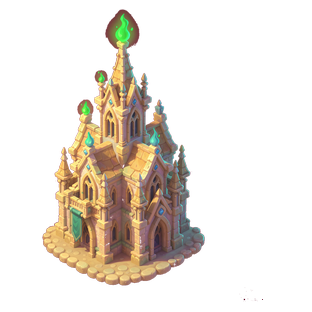
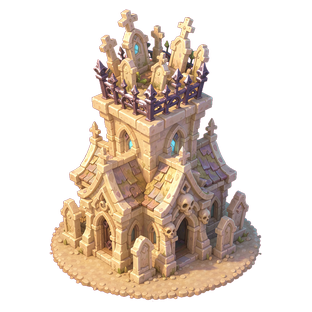
feat(art): 兵营V5三张形态回退（法师帽塔/墓地建筑/黄铜锅炉工厂，保留V4统一画风）

diff --git a/tools/expand-barracks-v5-prompts.py b/tools/expand-barracks-v5-prompts.py
@@ -1,0 +1,120 @@
+#!/usr/bin/env python3
+# -*- coding: utf-8 -*-
+"""展开兵营 V5 形态回退的完整 prompt（3 张）。
+
+用户 2026-11-26 追加指令：
+  25 法师   -> 改回旧版顶部法师帽表现
+  31 死灵法师 -> 改回旧版墓地建筑（墓碑+铁栅栏+哥特尖顶）
+  33 蒸汽坦克 -> 改回旧版工厂样式（黄铜锅炉机械，非房屋）
+
+原则：形态回退到 pre-v4，画风保留 V4 的圆润厚涂 / 去黑线稿 / 提亮暗部 / 冷色点缀。
+风格锚点从 V2 方案文档逐字抽取。
+用法: python3 tools/expand-barracks-v5-prompts.py
+输出: .workbuddy/art-staging/western-redraw-v5/prompts.json
+"""
+import json
+import re
+from pathlib import Path
+
+ROOT = Path(__file__).resolve().parent.parent
+DOC = (ROOT / "docs/art/ART-BARRACKS-V2-NONBUILDING-REDRAW.md").read_text(encoding="utf-8")
+
+
+def block(after):
+    i = DOC.index(after)
+    return re.search(r"```\n(.*?)\n```", DOC[i:], re.S).group(1).strip()
+
+
+SEG1 = block("### 段 1 ·")
+SEG4 = block("### 段 4")
+NEG_BASE = block("### Negative prompt（B/C/D 档")
+NEG_AB = block("### Negative prompt · A/B 档")
+
+STYLE_UNIFY = (
+    " CRITICAL STYLE MATCH — this must look like the SAME asset family as the rest of the barracks: "
+    "painterly thick-rounded brushwork, plump soft forms, smooth color transitions, chunky simplified shapes, "
+    "clean glossy candy-like highlights. NO black ink outlines, NO line art, NO sketch lines, NO flat cel shading, "
+    "NO black contour strokes around shapes, NO fine detailed linework. "
+    "Lift all dark shadow areas so the building reads clearly and never becomes a black mass; "
+    "shadows must be colored (indigo, teal or warm brown), NEVER pure black. "
+    "Add a few cool accent details (sky blue, teal or turquoise banners, gemstones, roof trim or magical glow) "
+    "to balance the otherwise warm gold palette. Keep it soft, round, bright and cartoon-like."
+)
+
+BUILD_FRAME = (
+    "Square 1:1 canvas, building centered slightly low, full building including the elliptical stone base "
+    "fills about 82 percent of canvas width, 8 to 10 percent clean margin on all sides, no cropping, no "
+    "perspective drift, flat even framing. The single signature object stays fully inside the frame and "
+    "is never hidden by flags, banners or roof decorations."
+)
+
+NEG_EXTRA = (
+    "black outlines, line art, ink sketch, black contour, harsh dark edges, cel shading, flat shading, "
+    "pure black shadows, muddy dark mass, grayscale, monochrome, realistic texture, fine linework"
+)
+
+# name, BUILDING, MAT, ACC, SIG, PROP, SIGPCT, SIGW, EXTRA
+DATA = {
+    "25": (
+        "法师-法师帽奥术塔(形态回退)",
+        "a squat whimsical mage tower with warm cream plaster walls, a round window and a small arched door, "
+        "crowned by a GIANT POINTED WIZARD HAT with a wide floppy brim and a softly bent tip, an open spellbook "
+        "resting on the hat brim and magical sparkles streaming from the hat tip",
+        "cream plaster, warm orange trim, purple felt and paper",
+        "magenta pink and sky blue magic glow",
+        "the giant pointed purple wizard hat with a wide brim sitting on top of the tower",
+        "an open spellbook, floating rune sparkles and small stars", 40, 32,
+        " The top of the tower MUST be a clearly recognizable wizard hat (wide brim + tall pointed cone), "
+        "NOT a crystal, NOT a gemstone, NOT a spire. Keep the friendly cartoon sag in the hat tip."),
+    "31": (
+        "死灵法师-墓地建筑(形态回退)",
+        "a gothic necromancer GRAVEYARD landmark: a cluster of small pointed stone chapels and arches surrounded "
+        "by a dense field of crooked tombstones and grave markers, an ornate iron fence around the cemetery, "
+        "a skull carved into the central arch and a green magical flame glowing above the tallest spire",
+        "pale cream stone, pale lavender stone and black iron fence",
+        "pale lavender and emerald green glow",
+        "the dense graveyard of crooked tombstones with the iron fence and a green-flame spire above it",
+        "skull carvings, iron fence posts, ghostly wisps and pointed arches", 30, 34,
+        " This must read as a CEMETERY / GRAVEYARD: many visible tombstones and an iron fence are required. "
+        "Walls must stay LIGHT cream or pale lavender and readable, never a dark mass; the iron fence may be "
+        "dark but thin and delicate."),
+    "33": (
+        "蒸汽坦克-黄铜锅炉工厂(形态回退)",
+        "a whimsical steam-powered machine shaped like a huge horizontal brass boiler drum on a tracked chassis, "
+        "a big round front hatch with a glowing blue gauge, riveted brass plates, exposed gears and pipes, "
+        "a small chimney puffing soft white steam, standing on an elliptical stone display base",
+        "polished brass, gold metal, iron and timber",
+        "gold and sky blue gauge glow",
+        "the big horizontal riveted brass boiler drum with a glowing blue round gauge",
+        "steam puffs, exposed gears, pipes and track wheels", 42, 34,
+        " This is a MACHINE / FACTORY ENGINE, NOT a house: NO cottage walls, NO pitched house roof, NO windows "
+        "and NO front door. The main body is a horizontal cylindrical boiler with rivets and mechanical parts."),
+}
+
+
+def main():
+    out = {}
+    for n, (name, subj, mat, acc, sig, prop, pct, w, extra) in DATA.items():
+        body = (
+            "A {BUILDING} for a fantasy unit barracks. Constructed from {MAT}, with {ACC} as the dominant "
+            "accent color, echoing the unit character art. One dominant oversized signature object dominates "
+            "the scene: {SIG}. This single signature object must occupy at least {SIGPCT} percent of the building "
+            "height and at least {SIGW} percent of the canvas width; it must read clearly when scaled down to "
+            "10 percent. All other details, including {PROP}, are secondary and quieter. The architecture must "
+            "clearly express this unit role and be unmistakably Western fantasy medieval, not Eastern."
+        ).format(BUILDING=subj, MAT=mat, ACC=acc, SIG=sig, PROP=prop, SIGPCT=pct, SIGW=w)
+        neg = NEG_BASE + ", " + NEG_AB + ", " + NEG_EXTRA
+        prompt = (SEG1 + "\n\n" + body + extra + STYLE_UNIFY + "\n\n" + BUILD_FRAME +
+                  "\n\n" + SEG4 + "\n\nNegative prompt: " + neg)
+        out[n] = {"name": name, "prompt": prompt}
+
+    dst = ROOT / ".workbuddy/art-staging/western-redraw-v5/prompts.json"
+    dst.parent.mkdir(parents=True, exist_ok=True)
+    dst.write_text(json.dumps(out, ensure_ascii=False, indent=2), encoding="utf-8")
+    print(f"wrote {len(out)} prompts -> {dst}")
+    for n, v in out.items():
+        print(n, v["name"], len(v["prompt"]))
+
+
+if __name__ == "__main__":
+    main()
